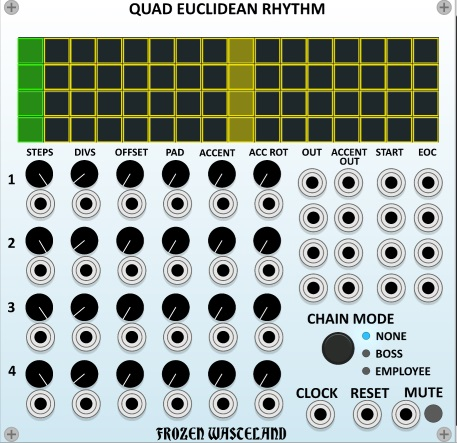
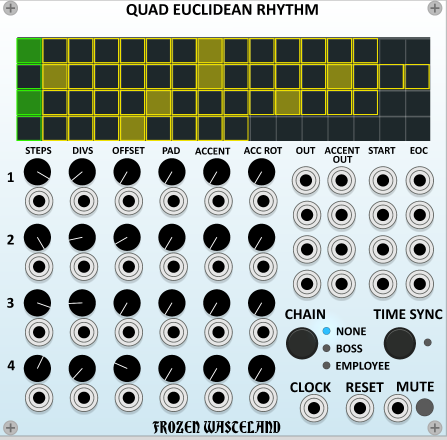
0.6.3 Documentation update

diff --git a/README.md b/README.md
@@ -13,6 +13,13 @@ A collection of unusual plugins that will add a certain coolness to your patches
 - Hold input can either be a gate (which switches each time) or momentary (active while signal is positve)
 - If set to Free, LFO still runs while being held (even if outputs don't change), Pause causes LFO to pause.
 
+## BPM LFO 2
+![BPM LFO](./doc/bpmlfo2.png)
+
+- Variation of original BPM LFO.
+- CV Control of Time Division and Wave Shape
+- Can either be variable sawtooth/triangle or variable duty cycle square wave
+
 ## Damian Lillard
 ![Damian Lillard](./doc/damianlillard.png)
 - Voltage Controlled Quad Crossover
@@ -80,6 +87,8 @@ A collection of unusual plugins that will add a certain coolness to your patches
 - Each QER has its own clock input, so tempo changes can easily be created
 - Mute Input keeps rhythm running just no output
 - https://www.youtube.com/watch?v=ARMxz11z9FU is an example of how to patch a couple QERs together and drive some drum synths
+- Normally each track advances one step every clock beat and are independent. If Time Sync is enabled, the track with the most steps becomes the master and the other tracks will fit their patterns to the timing of the master. This allows for complex polyrhythms (ie. 15 on 13 on 11 on 4, etc.)
+- https://www.youtube.com/watch?v=eCErJMKAlVY is an example of the QER with Time Sync enabled
 ### Euclidean Rhythms
 - Euclidean are based upon attempting to equally distribute the divisions among the steps available
 - Basic example, with a step count of 16, and 2 divisions, the divisions will be on the 1 and the 9.
